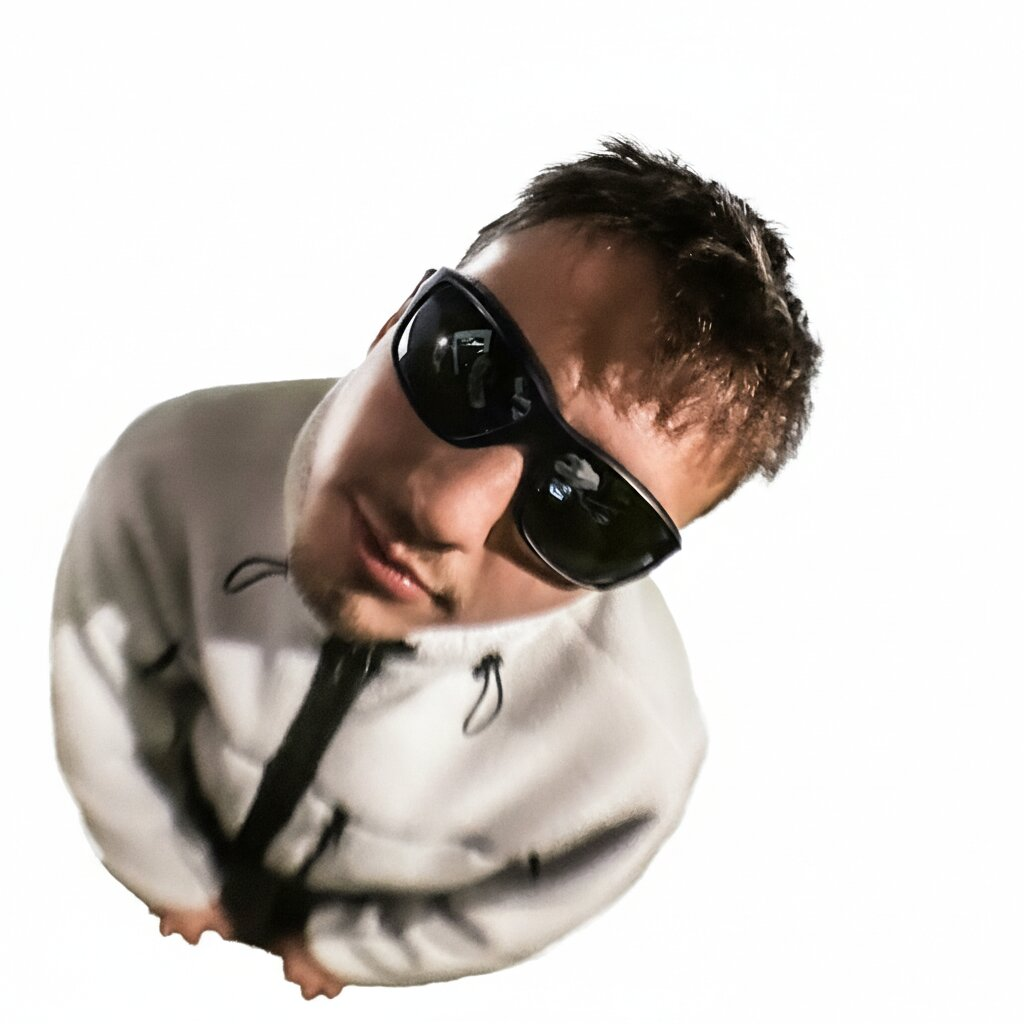
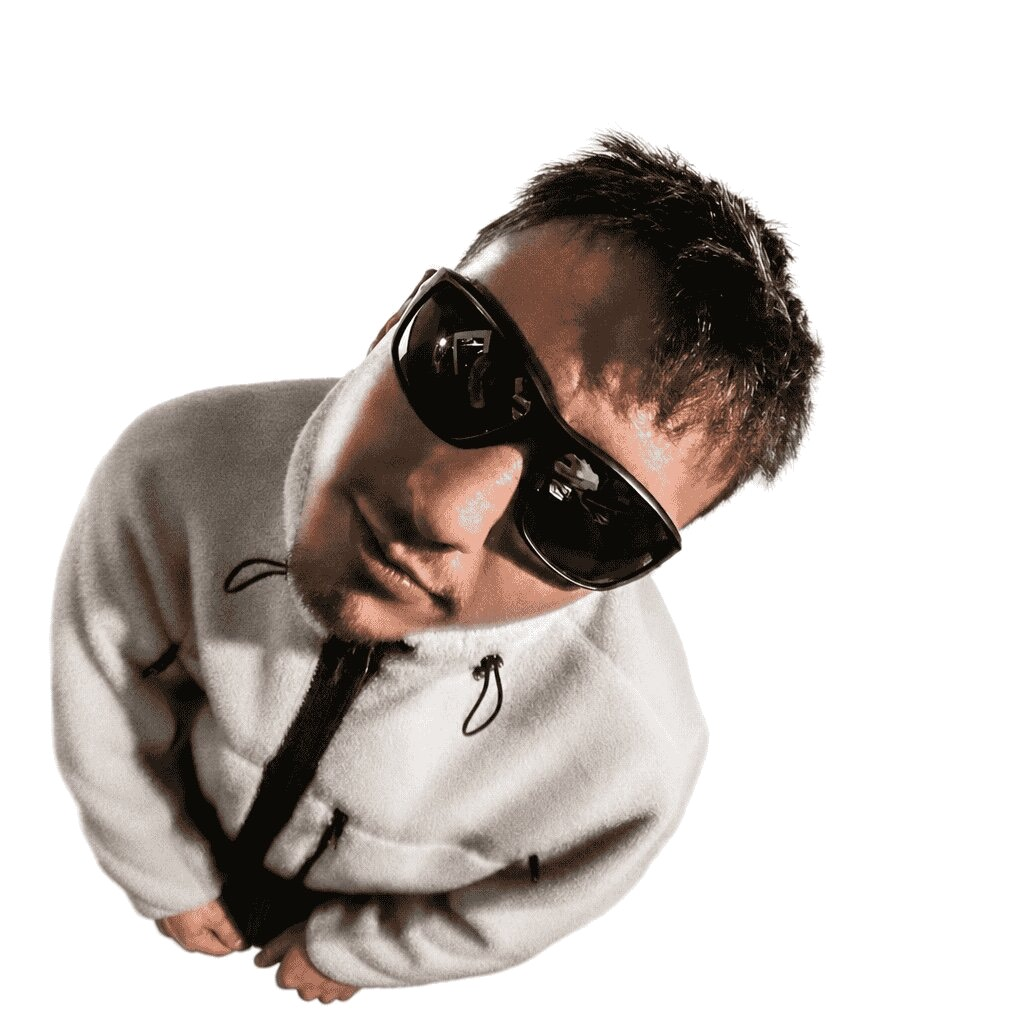
pic fix test 01

diff --git a/src/components/ProjectsSection.tsx b/src/components/ProjectsSection.tsx
@@ -1,5 +1,6 @@
 'use client'
 import { useState, useRef, useEffect, useCallback } from 'react'
+import Image from 'next/image'
 import { useLanguage } from '@/contexts/LanguageContext'
 import { useScroll } from '@/contexts/ScrollContext'
 import { useScramble, runScramble } from '@/hooks/use-scramble'
@@ -29,12 +30,12 @@ function ScrambleText({ text, style }: { text: string; style?: React.CSSProperti
 
 function PixelCanvas({ src, w, pixelSize = 1 }: { src: string; w: number; pixelSize?: number }) {
   const cvs    = useRef<HTMLCanvasElement>(null)
-  const domImg = useRef<HTMLImageElement>(null)
+  const imgRef = useRef<HTMLImageElement | null>(null)
   const natHRef = useRef(0)
   const [natH, setNatH] = useState(0)
 
   const draw = useCallback(() => {
-    const img = domImg.current
+    const img = imgRef.current
     if (!img || !img.naturalWidth || !img.naturalHeight) return
     const h = natHRef.current
     if (!h || !w) return
@@ -57,14 +58,26 @@ function PixelCanvas({ src, w, pixelSize = 1 }: { src: string; w: number; pixelS
     }
   }, [w, pixelSize])
 
-  const handleLoad = useCallback(() => {
-    const img = domImg.current
-    if (!img || !img.naturalWidth || !img.naturalHeight) return
-    const h = Math.round(w * img.naturalHeight / img.naturalWidth)
-    natHRef.current = h
-    setNatH(h)
-    draw()
-  }, [w, draw])
+  useEffect(() => {
+    let cancelled = false
+    const img = new window.Image()
+    img.onload = () => {
+      if (cancelled) return
+      imgRef.current = img
+      const h = Math.round(w * img.naturalHeight / img.naturalWidth)
+      natHRef.current = h
+      setNatH(h)
+      draw()
+    }
+    img.onerror = () => {
+      if (cancelled) return
+      imgRef.current = null
+      natHRef.current = Math.round(w * 0.75)
+      setNatH(Math.round(w * 0.75))
+    }
+    img.src = src
+    return () => { cancelled = true }
+  }, [src, w, draw])
 
   useEffect(() => {
     if (natH) draw()
@@ -72,10 +85,6 @@ function PixelCanvas({ src, w, pixelSize = 1 }: { src: string; w: number; pixelS
 
   return (
     <div style={{ position: 'relative', lineHeight: 0 }}>
-      {/* eslint-disable-next-line @next/next/no-img-element */}
-      <img ref={domImg} src={src} alt="" onLoad={handleLoad} aria-hidden="true"
-        style={{ position: 'absolute', width: 0, height: 0, opacity: 0, pointerEvents: 'none' }}
-      />
       {natH > 0
         ? <canvas ref={cvs} width={w} height={natH} style={{ display: 'block', width: '100%', height: 'auto' }} />
         : <div style={{ width: w, height: Math.round(w * 0.75), background: '#111' }} />
@@ -315,7 +324,7 @@ function ProjectCard({ project, forceHover, overlayOpen, onClick }: {
         filter: overlayOpen ? 'blur(8px)' : 'none',
       }}
     >
-      <img src={project.image} alt="" style={{
+      <Image src={project.image} alt="" width={1200} height={800} style={{
         display: 'block', width: '100%', height: 'auto',
         filter: isActive ? 'none' : 'invert(1) hue-rotate(180deg) grayscale(1)',
         transition: 'filter 0.22s ease-out', userSelect: 'none', pointerEvents: 'none',

diff --git a/src/components/InteractiveDots.tsx b/src/components/InteractiveDots.tsx
@@ -1,6 +1,7 @@
 'use client'
 
 import { useState, useEffect, useCallback, useRef, useMemo } from 'react'
+import Image from 'next/image'
 import { useLanguage } from '@/contexts/LanguageContext'
 import { useMobile } from '@/hooks/use-mobile'
 import { useScroll } from '@/contexts/ScrollContext'
@@ -564,7 +565,7 @@ export function InteractiveDots({
         <button key={circle.id} onClick={() => openOverlay(circle.iconIndex)}
           style={{ position:'absolute', left: circle.x - circleSize/2, top: circle.y - circleSize/2, width: circleSize, height: circleSize, cursor:'pointer', zIndex: isHovered || isTouchRevealed ? 12 : 10, border:'none', background:'none', padding:0, display:'flex', alignItems:'center', justifyContent:'center' }}>
           <div style={{ width: circleSize, height: circleSize, borderRadius:'18%', overflow:'hidden', opacity, transition, transform:`scale(${scale})`, transformOrigin:'center' }}>
-            <img src={program.iconImg} alt={program.name[lang]}
+            <Image src={program.iconImg} alt={program.name[lang]} width={120} height={120}
               style={{ width:'100%', height:'100%', objectFit:'cover', display:'block' }}
               onError={(e) => {
                 const el = e.currentTarget.parentElement!
@@ -663,7 +664,7 @@ function Overlay({ program, idx, totalPrograms, phase, onClose, onNavigate, lang
         <div style={{ display:'flex', flexDirection: isMobile?'column':'row', alignItems: isMobile?'center':'stretch', pointerEvents:'auto', cursor:'default' }}>
           <div style={{ width:imgW, flexShrink:0, alignSelf:'stretch', position:'relative', zIndex:1, transform: isOpening||isClosing?'scale(0.72)':'scale(1)', opacity: isOpening||isClosing?0:1, transition: isClosing?`transform 300ms ${EASE} 200ms, opacity 280ms ease 200ms`:`transform 320ms ${EASE}, opacity 300ms ease`, background:`radial-gradient(ellipse at 140% 140%, ${program.color}60 0%, ${program.color}20 40%, #0a0a0a 70%)`, display:'flex', alignItems:'center', justifyContent:'center' }}>
             <div style={{ width:'62%', aspectRatio:'1/1', borderRadius:'22%', overflow:'hidden', boxShadow:`0 24px 80px ${program.color}50` }}>
-              <img src={program.iconImg} alt={program.name[lang]} style={{ width:'100%', height:'100%', objectFit:'cover', display:'block' }} />
+                <Image src={program.iconImg} alt={program.name[lang]} width={500} height={500} style={{ width:'100%', height:'100%', objectFit:'cover', display:'block' }} />
             </div>
           </div>
           <div onClick={e => e.stopPropagation()} style={{ width:panW, flexShrink:0, position:'relative', zIndex:0, transform:`translateX(${isOpening||isClosing?'-100%':'0%'})`, opacity: isOpening||isClosing?0:1, transition: isClosing?`transform 260ms ${EASE}, opacity 240ms ease`:`transform 300ms ${EASE} 100ms, opacity 280ms ease 100ms`, backgroundColor:'#ffffff', overflow:'hidden' }}>

diff --git a/src/components/Hero.tsx b/src/components/Hero.tsx
@@ -1,6 +1,7 @@
 'use client'
 
 import { useState, useRef, useCallback, useEffect } from 'react'
+import Image from 'next/image'
 import { useMobile } from '@/hooks/use-mobile'
 import { useScroll } from '@/contexts/ScrollContext'
 import { startScramble } from '@/lib/scramble'
@@ -194,7 +195,7 @@ function PixelTrailImage({ img }: { img: TrailImage }) {
 
 if (typeof window !== 'undefined') {
   images.forEach((src) => {
-    const img = new Image()
+    const img = new window.Image()
     img.src = src
   })
 }
@@ -449,12 +450,13 @@ export function AnimatedLogo({ isScrolled, onMouseMove }: { isScrolled: boolean;
 }
 
 function BgImage() {
-  const { isMobile } = useMobile()
+  const { isMobile, width } = useMobile()
   const { scrollY, vh } = useScroll()
 
   const progress = vh > 0 ? Math.min(1, scrollY / vh) : 0
   const blur = progress * 20
   const opacity = 1 - progress
+  const bgSize = isMobile ? Math.max(1, Math.round(width)) : 660
 
   return (
     <div
@@ -466,13 +468,18 @@ function BgImage() {
         zIndex: 0,
         opacity,
         filter: `blur(${blur}px)`,
+        maskImage: 'radial-gradient(ellipse at center, rgba(0,0,0,1) 76%, rgba(0,0,0,0) 100%)',
+        WebkitMaskImage: 'radial-gradient(ellipse at center, rgba(0,0,0,1) 76%, rgba(0,0,0,0) 100%)',
         transition: 'none',
         willChange: 'opacity, filter',
       }}
     >
-      <img
+      <Image
         src="/photos/background.jpg"
         alt=""
+        width={bgSize}
+        height={bgSize}
+        priority
         style={{
           width: isMobile ? '100vw' : '660px',
           height: 'auto',

diff --git a/src/components/ResumeTimeline.tsx b/src/components/ResumeTimeline.tsx
@@ -1,6 +1,7 @@
 'use client'
 
 import { useState, useEffect, useRef, useCallback } from 'react'
+import Image from 'next/image'
 import { useLanguage } from '@/contexts/LanguageContext'
 import { useMobile } from '@/hooks/use-mobile'
 import { useScroll } from '@/contexts/ScrollContext'
@@ -96,7 +97,7 @@ function Station({ entry, proximity, lang }: { entry: TimelineEntry; proximity: 
         boxShadow: proximity > 0.7 ? `0 12px 48px rgba(0,0,0,${0.25 * ((proximity - 0.7) / 0.3)})` : 'none',
         transition: 'filter 0.15s ease, box-shadow 0.3s ease',
       }}>
-        <img src={entry.img} alt="" style={{ width:'100%', height:'100%', objectFit:'cover', display:'block' }} />
+        <Image src={entry.img} alt="" width={600} height={600} style={{ width:'100%', height:'100%', objectFit:'cover', display:'block' }} />
       </div>
 
       {/* Text positioned below the image */}
@@ -407,13 +408,14 @@ function MobileStationCard({ entry, lang }: { entry: TimelineEntry; lang: Lang }
         borderRadius: 16,
         overflow: 'hidden',
         boxShadow: '0 16px 48px rgba(0,0,0,0.15)',
+        position: 'relative',
       }}>
-        <img
+        <Image
           src={entry.img}
           alt=""
+          fill
+          sizes="(max-width: 768px) 70vw, 280px"
           style={{
-            width: '100%',
-            height: '100%',
             objectFit: 'cover',
             display: 'block',
           }}

diff --git a/src/components/GWASection.tsx b/src/components/GWASection.tsx
@@ -1,5 +1,6 @@
 'use client'
 import { useRef, useEffect, useState, useCallback } from 'react'
+import Image from 'next/image'
 import { useLanguage } from '@/contexts/LanguageContext'
 import { useMobile } from '@/hooks/use-mobile'
 import { useScroll } from '@/contexts/ScrollContext'
@@ -168,9 +169,10 @@ function LogoRow() {
         { src: '/images/cc-logo.png',      alt: 'Creative Team' },
       ].map((logo, i) => (
         <div key={logo.alt} style={{ display: 'flex', alignItems: 'center', gap: 'clamp(12px,2vw,28px)' }}>
-          {/* eslint-disable-next-line @next/next/no-img-element */}
-          <img
+          <Image
             src={logo.src} alt={logo.alt}
+            width={260}
+            height={110}
             style={{ height: 'clamp(56px,7.5vw,110px)', width: 'auto', objectFit: 'contain', filter: 'grayscale(1) contrast(1.2)' }}
           />
           {i < 2 && (

diff --git a/src/components/QuoteSection.tsx b/src/components/QuoteSection.tsx
@@ -1,5 +1,6 @@
 'use client'
 import { useEffect, useRef, useState, useCallback } from 'react'
+import Image from 'next/image'
 import { useLanguage } from '@/contexts/LanguageContext'
 import { startScramble } from '@/lib/scramble'
 
@@ -114,9 +115,11 @@ function YinYang({ visible, scrolledIn, sectionHeight }: {
   return (
     <div style={{ opacity: appearProgress, willChange: 'opacity' }}>
       <div style={{ transform: `rotate(${rotation}deg)`, willChange: 'transform' }}>
-        <img
+        <Image
           src="/images/jing-jang.png"
           alt=""
+          width={size}
+          height={size}
           style={{ width: size, height: size, display: 'block' }}
         />
       </div>

diff --git a/src/components/Preloader.tsx b/src/components/Preloader.tsx
@@ -368,6 +368,8 @@ export function Preloader({ onComplete }: PreloaderProps) {
           right: bgRight,
           top: bgTop,
           bottom: bgBottom,
+          maskImage: 'radial-gradient(ellipse at center, rgba(0,0,0,1) 76%, rgba(0,0,0,0) 100%)',
+          WebkitMaskImage: 'radial-gradient(ellipse at center, rgba(0,0,0,1) 76%, rgba(0,0,0,0) 100%)',
           pointerEvents: 'none',
         }}
       >
